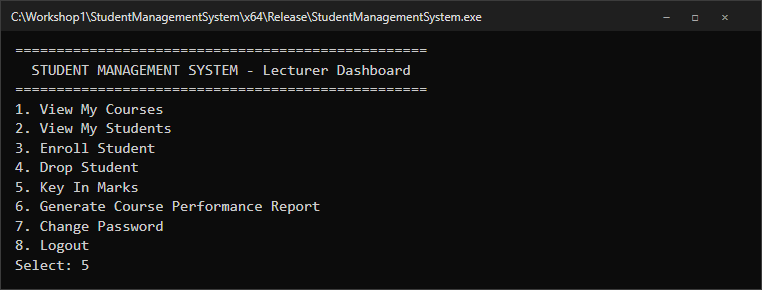
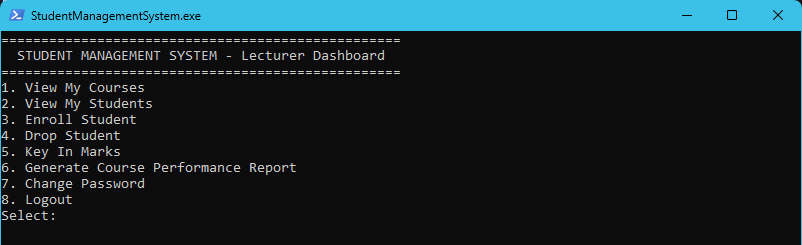
docs: use real console screenshots in the readme

Changed region(s): [[0.0, 0.0, 1.0, 1.0], [0.0, 0.3429, 0.4226, 0.9429]]

diff --git a/README.md b/README.md
@@ -8,27 +8,16 @@
 
 My Workshop I project. A console program for the faculty to keep student, lecturer and course records, key in marks and work out GPA and CGPA with the UTeM grading scale. Data is stored in MySQL (XAMPP) through MySQL Connector/C++.
 
-<table>
-  <tr>
-    <td width="50%"><img src="docs/screenshots/key-in-marks.png" alt="Key In Marks"></td>
-    <td width="50%"><img src="docs/screenshots/course-report.png" alt="Course Performance Report"></td>
-  </tr>
-  <tr>
-    <td align="center"><b>Key In Marks</b></td>
-    <td align="center"><b>Course Performance Report</b></td>
-  </tr>
-</table>
+**Showcase:** https://cheah20.github.io/StudentManagementSystemCppVersion/
 
 <table>
   <tr>
-    <td width="33%"><img src="docs/screenshots/login.png" alt="Login"></td>
-    <td width="33%"><img src="docs/screenshots/lecturer-menu.png" alt="Lecturer Dashboard"></td>
-    <td width="33%"><img src="docs/screenshots/students.png" alt="View All Students"></td>
+    <td width="50%"><img src="docs/screenshots/key-in-marks.png" alt="Key In Marks"></td>
+    <td width="50%"><img src="docs/screenshots/course-grade-report.png" alt="Course Grade Report"></td>
   </tr>
   <tr>
-    <td align="center">Login</td>
-    <td align="center">Lecturer Dashboard</td>
-    <td align="center">View All Students</td>
+    <td align="center"><b>Key In Marks</b></td>
+    <td align="center"><b>Course Grade Report</b></td>
   </tr>
 </table>
 
@@ -75,6 +64,108 @@ The problem was split by user. Admin needs clean records with no duplicates, lec
 
 A new student gets the next matric number (`B032410XXX`), a university email and a first password from the last 6 digits of the IC. Passwords are shown as `*` while typing.
 
+## Screens
+
+All screenshots are from the program running in a Windows console with the sample data.
+
+### Login
+
+<table>
+  <tr>
+    <td width="50%"><img src="docs/screenshots/login.png" alt="Login (password shows as *)"></td>
+    <td width="50%"><img src="docs/screenshots/admin-menu.png" alt="Admin Dashboard"></td>
+  </tr>
+  <tr>
+    <td align="center">Login (password shows as *)</td>
+    <td align="center">Admin Dashboard</td>
+  </tr>
+</table>
+
+### Admin
+
+<table>
+  <tr>
+    <td width="50%"><img src="docs/screenshots/admin-people.png" alt="User Add On"></td>
+    <td width="50%"><img src="docs/screenshots/view-students.png" alt="View All Students"></td>
+  </tr>
+  <tr>
+    <td align="center">User Add On</td>
+    <td align="center">View All Students</td>
+  </tr>
+  <tr>
+    <td width="50%"><img src="docs/screenshots/add-student.png" alt="Add Student"></td>
+    <td width="50%"><img src="docs/screenshots/search-student.png" alt="Search Student"></td>
+  </tr>
+  <tr>
+    <td align="center">Add Student</td>
+    <td align="center">Search Student</td>
+  </tr>
+  <tr>
+    <td width="50%"><img src="docs/screenshots/view-lecturers.png" alt="View All Lecturers"></td>
+    <td width="50%"><img src="docs/screenshots/view-courses.png" alt="View All Courses"></td>
+  </tr>
+  <tr>
+    <td align="center">View All Lecturers</td>
+    <td align="center">View All Courses</td>
+  </tr>
+</table>
+
+### Lecturer
+
+<table>
+  <tr>
+    <td width="50%"><img src="docs/screenshots/lecturer-login.png" alt="Lecturer Login"></td>
+    <td width="50%"><img src="docs/screenshots/lecturer-menu.png" alt="Lecturer Dashboard"></td>
+  </tr>
+  <tr>
+    <td align="center">Lecturer Login</td>
+    <td align="center">Lecturer Dashboard</td>
+  </tr>
+  <tr>
+    <td width="50%"><img src="docs/screenshots/my-courses.png" alt="My Courses"></td>
+    <td width="50%"><img src="docs/screenshots/my-students.png" alt="My Students"></td>
+  </tr>
+  <tr>
+    <td align="center">My Courses</td>
+    <td align="center">My Students</td>
+  </tr>
+  <tr>
+    <td width="50%"><img src="docs/screenshots/key-in-marks.png" alt="Key In Marks"></td>
+    <td width="50%"><img src="docs/screenshots/course-performance-report.png" alt="Course Performance Report"></td>
+  </tr>
+  <tr>
+    <td align="center">Key In Marks</td>
+    <td align="center">Course Performance Report</td>
+  </tr>
+</table>
+
+### Student
+
+<table>
+  <tr>
+    <td width="50%"><img src="docs/screenshots/student-menu.png" alt="Student Dashboard"></td>
+    <td width="50%"><img src="docs/screenshots/profile.png" alt="My Profile"></td>
+  </tr>
+  <tr>
+    <td align="center">Student Dashboard</td>
+    <td align="center">My Profile</td>
+  </tr>
+  <tr>
+    <td width="50%"><img src="docs/screenshots/enrolled-courses.png" alt="Enrolled Courses"></td>
+    <td width="50%"><img src="docs/screenshots/performance.png" alt="Academic Performance"></td>
+  </tr>
+  <tr>
+    <td align="center">Enrolled Courses</td>
+    <td align="center">Academic Performance</td>
+  </tr>
+  <tr>
+    <td width="50%"><img src="docs/screenshots/transcript.png" alt="Generate Transcript"></td>
+  </tr>
+  <tr>
+    <td align="center">Generate Transcript</td>
+  </tr>
+</table>
+
 ## Business Rules
 
 - Matric numbers (`B032410XXX`) and staff IDs (`L001`) are unique.
@@ -99,6 +190,15 @@ Marks are 0 to 100. The total mark depends on the credit hours of the course.
 | GPA | 4.00 | 3.70 | 3.30 | 3.00 | 2.70 | 2.30 | 2.00 | 1.70 | 1.30 | 1.00 | 0.00 |
 
 CGPA = sum of (GPA × credit hours) / sum of credit hours. A student passes a course with 40 marks or more.
+
+Grades and CGPA are coloured on screen:
+
+| Colour | Grade | CGPA |
+|---|---|---|
+| Bright cyan, bold (Dean's List) | A, A- | 3.50 and above |
+| Cyan (pass and upper) | B+ to C | 2.50 to 3.49 |
+| Yellow (close to failing) | C-, D+, D | 2.00 to 2.49 |
+| Red (fail) | E | below 2.00 |
 
 ## Design
 
